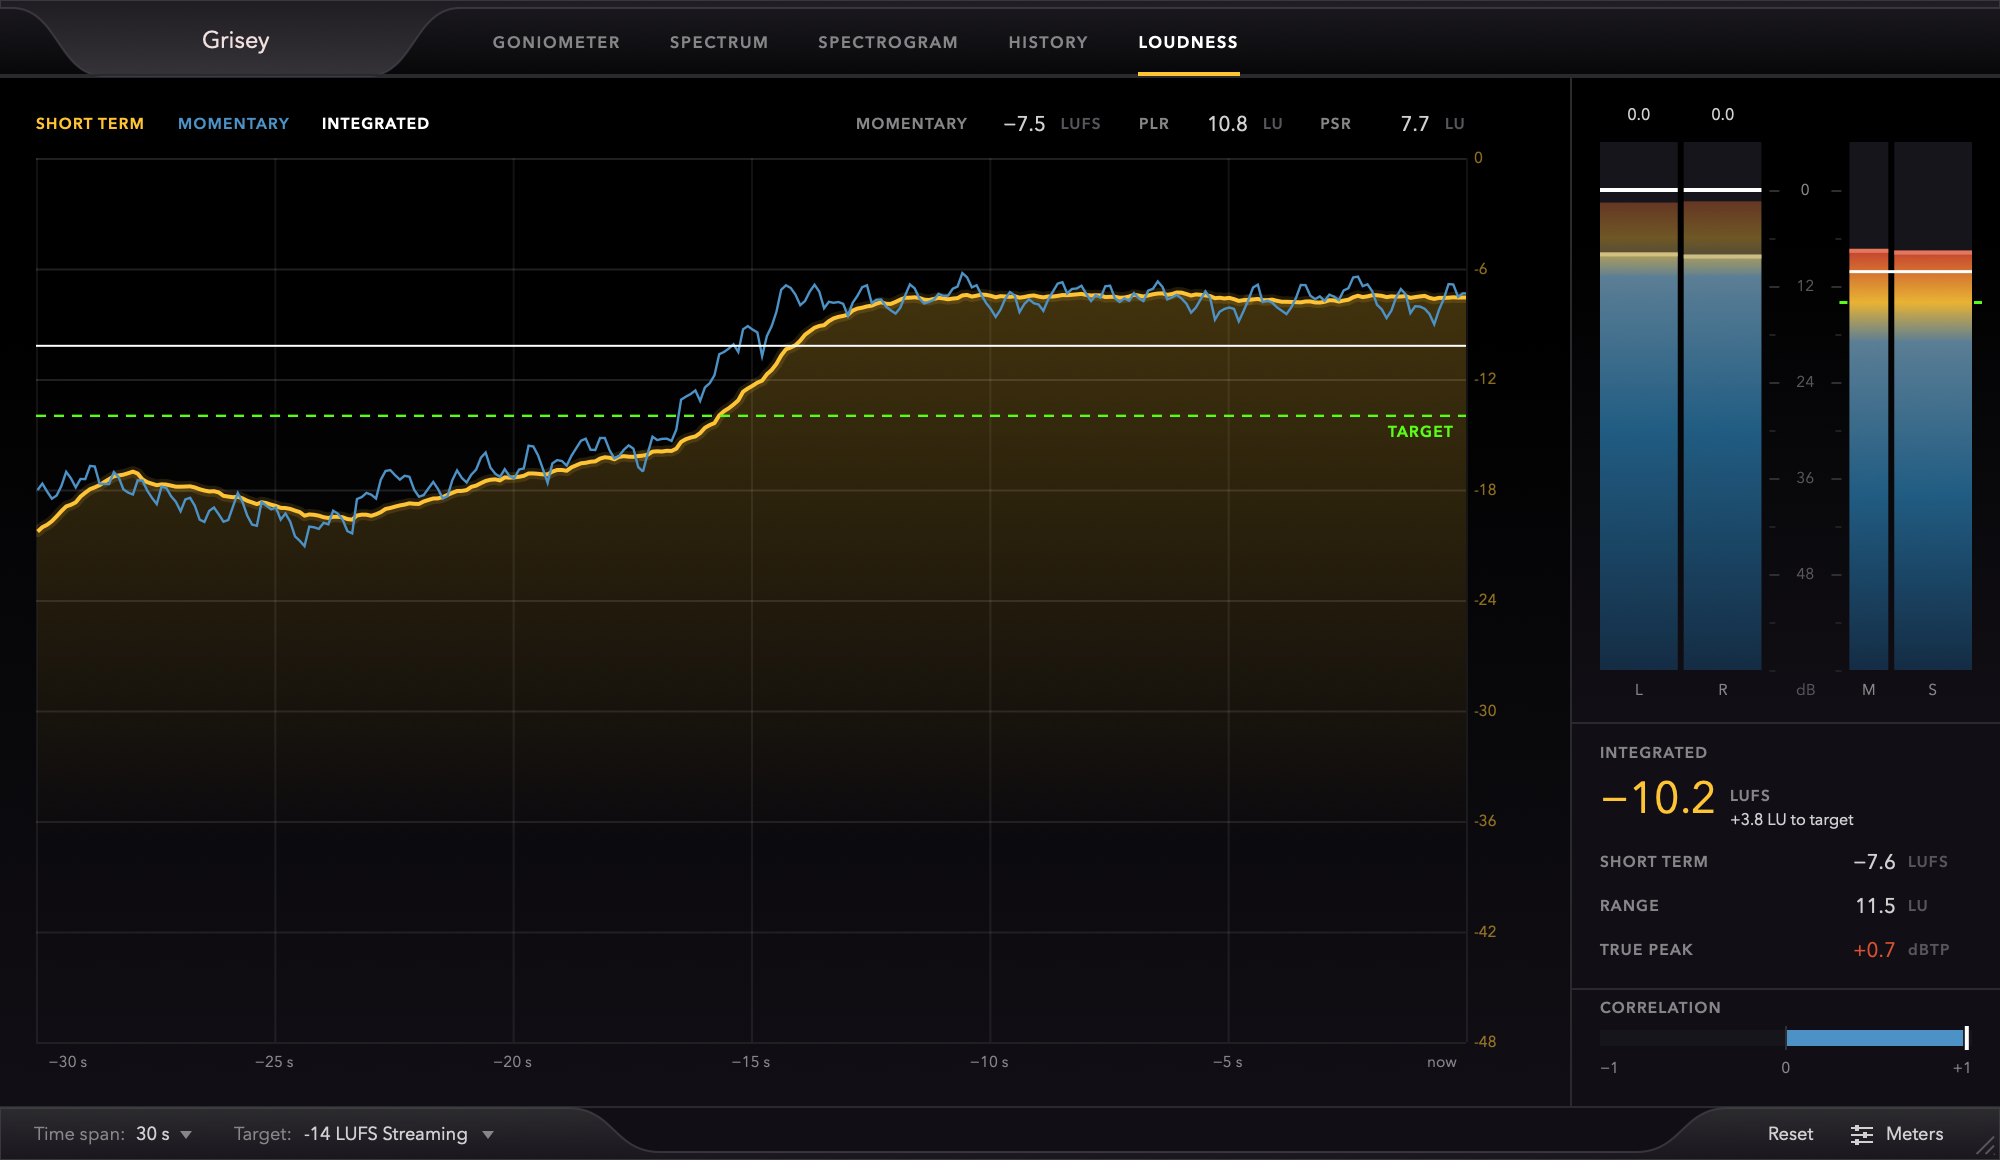
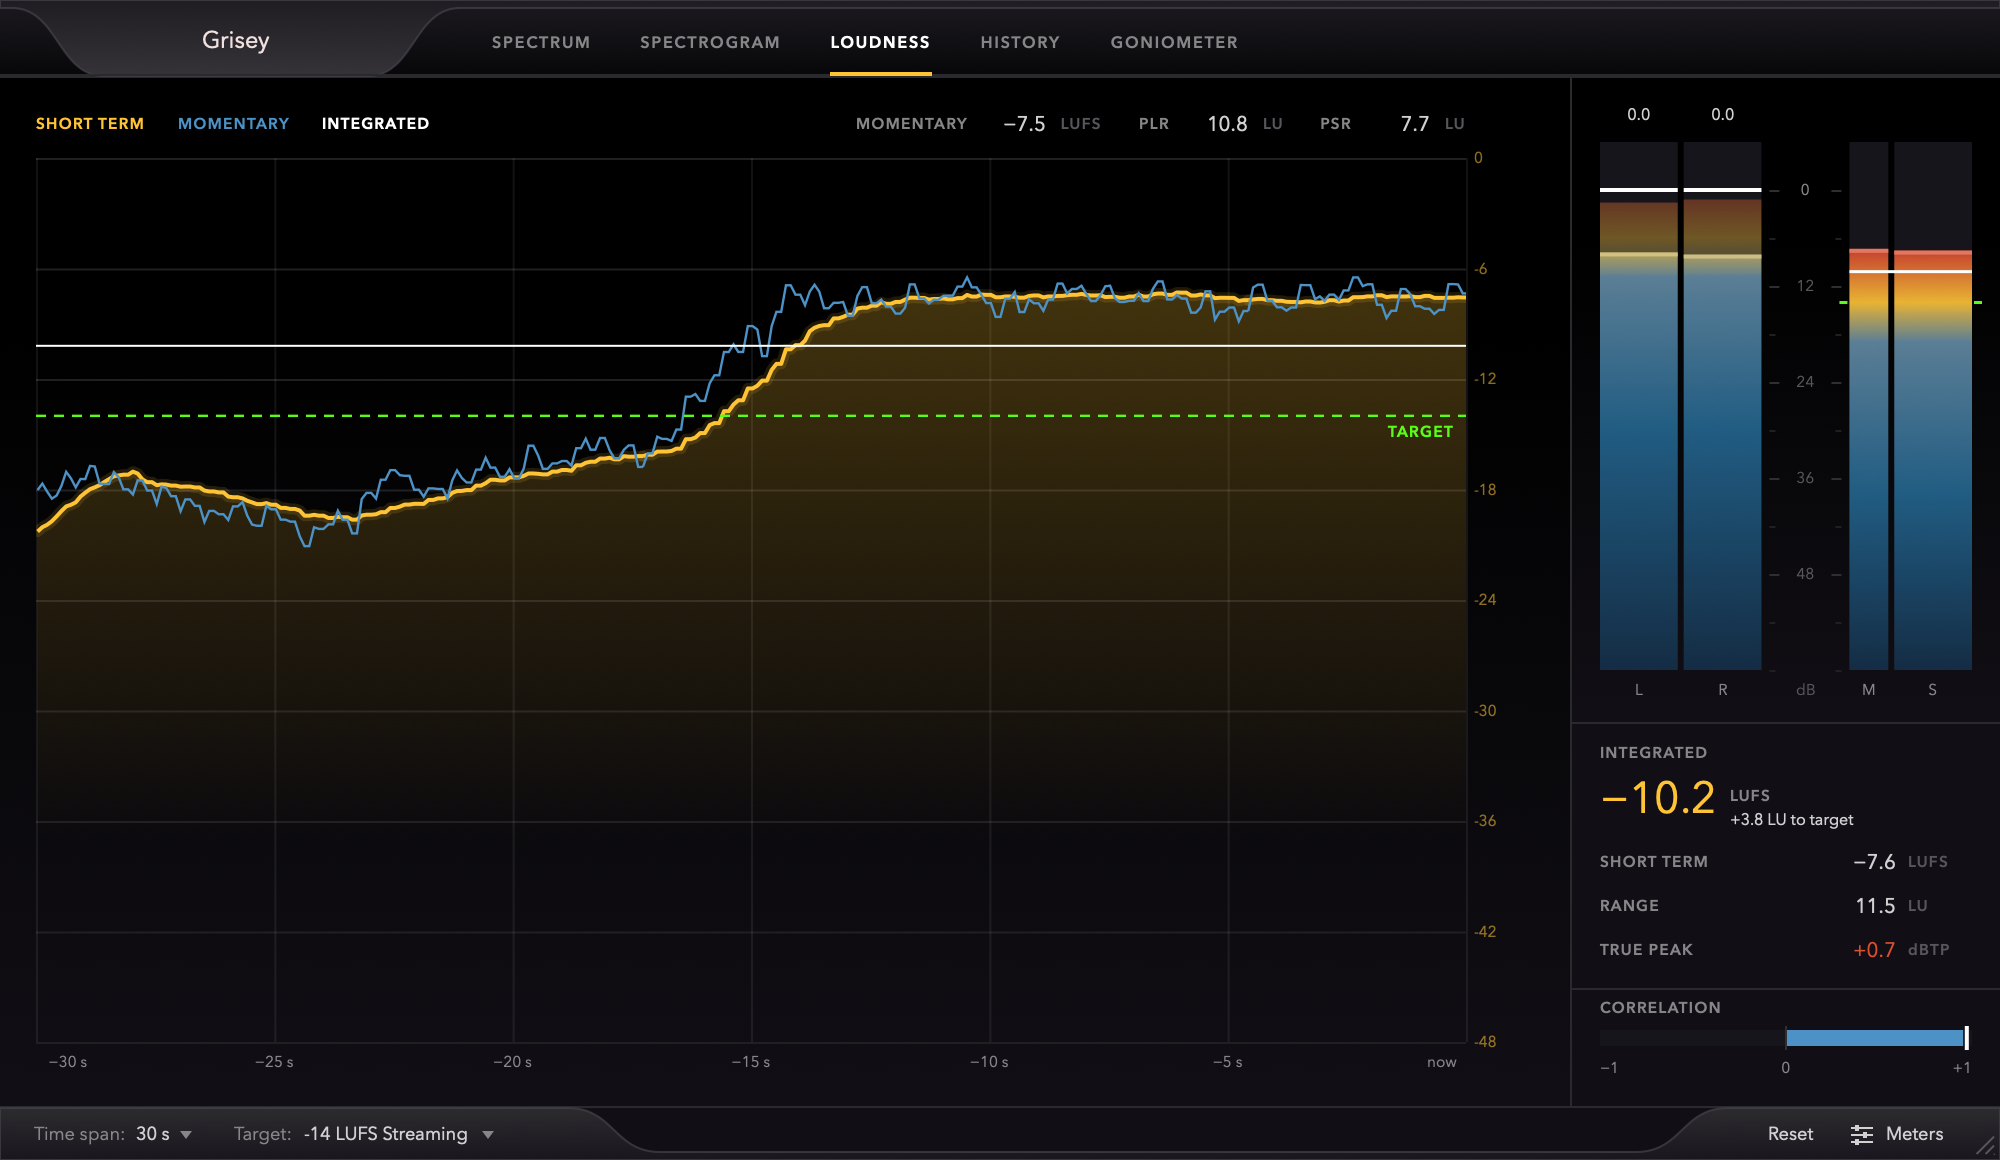
Make the spectrogram dark, put the tabs in order, and redraw at 60
The spectrogram showed 90 dB, so even what was quiet was lit, and its colors
ran from a bright blue to a bright yellow, which makes a grey green of
everything between them: the picture was a wash of blue with yellow patches.
It now shows 66 dB, raises the level's place in that range to the power of 1.5
so that what is quiet stays dark, and goes from black through a hint of the
meters' blue to the amber and the yellow of the signal and a warm white. The
blue meets the amber while both are dark. It records 512 rows, where it had
256, and the scrolling images are drawn with smoothing, so a column is not a
block when the span is short. Measured at 60 frames per second: 13% of a core,
the same as the loudness view.

The tabs were in the order that the views were written in, with the goniometer
first because it was all that version 1 had. Now the view that opens first
comes first, the two views of the spectrum are side by side, then the three of
the timeline with the loudness first among them, and the goniometer is at the
end. Only the order of the tabs has changed, in the editor: the values of the
parameter are as they were, so saved sessions open on the view they had.

The editor redraws at 60 frames per second unless it is set to 30. A session
that was saved with 30 keeps it.

diff --git a/Source/PluginEditor.cpp b/Source/PluginEditor.cpp
@@ -17,6 +17,17 @@ namespace
     const juce::Identifier editorHeightProperty { "editorHeight" };
 }
 
+namespace
+{
+    // The order of the tabs. The view that opens first comes first, the two views of the spectrum are
+    // side by side, and so are the three views of the timeline, of which the loudness matters most.
+    // The goniometer, the only view of the stereo image, is at the end, beside the correlation. The
+    // values of the parameter are in another order, which is that of version 2's first builds, and
+    // cannot change without saved sessions opening on the wrong view.
+    constexpr std::array<int, 5> tabOrder { Parameters::viewSpectrum, Parameters::viewSpectrogram, Parameters::viewLoudness,
+                                            Parameters::viewHistory, Parameters::viewGoniometer };
+}
+
 //==============================================================================
 GriseyAudioProcessorEditor::GriseyAudioProcessorEditor(GriseyAudioProcessor& p) :
     AudioProcessorEditor(&p),
@@ -37,8 +48,12 @@ GriseyAudioProcessorEditor::GriseyAudioProcessorEditor(GriseyAudioProcessor& p) 
 
     // The tabs change between the views
     addAndMakeVisible(tabs);
-    tabs.setTabs(mainViewNames);
-    tabs.onChange = [this](int id) { mainViewAttachment.setValueAsCompleteGesture((float)id); };
+    juce::StringArray tabNames;
+    for (int viewId : tabOrder)
+        tabNames.add(mainViewNames[viewId]);
+
+    tabs.setTabs(tabNames);
+    tabs.onChange = [this](int tab) { mainViewAttachment.setValueAsCompleteGesture((float)tabOrder[(size_t)tab]); };
 
     addChildComponent(goniometerView);
     addChildComponent(spectrumView);
@@ -385,7 +400,7 @@ void GriseyAudioProcessorEditor::updateMeters(float elapsedSeconds)
 //==============================================================================
 void GriseyAudioProcessorEditor::showMainView(int viewId)
 {
-    tabs.setSelection(viewId);
+    tabs.setSelection((int)std::distance(tabOrder.begin(), std::find(tabOrder.begin(), tabOrder.end(), viewId)));
     controlBar.showView(viewId);
 
     // The dip in the bottom bar follows the width of the view's controls

diff --git a/Source/Views/SpectrogramView.cpp b/Source/Views/SpectrogramView.cpp
@@ -7,14 +7,18 @@ SpectrogramView::SpectrogramView(SpectrumSource& spectrumSource) : source(spectr
     display.numPoints = numRows;
     pending.fill(SpectrumEngine::silenceDb);
 
-    // From the black of the display through the deep and the bright blue to the yellow of the signal
-    // and on to white, so that the lightness rises with the level
+    // Like the spectrum, the picture is dark, and what is loud is a light in it. What is quiet is a hint of the
+    // blue of the meters, and then the level rises through the amber of the signal to its yellow and on to a
+    // warm white, so that the lightness rises with the level all the way. The blue meets the amber while both
+    // are dark: a bright blue beside a bright yellow makes a grey green of everything between them.
     juce::ColourGradient gradient;
     gradient.addColour(0.0, Theme::displayTop);
-    gradient.addColour(0.3, Theme::secondDeep);
-    gradient.addColour(0.55, Theme::second);
-    gradient.addColour(0.82, Theme::accent);
-    gradient.addColour(1.0, juce::Colours::white);
+    gradient.addColour(0.2, juce::Colour(0xff08121d));
+    gradient.addColour(0.4, Theme::meterDeep);
+    gradient.addColour(0.56, juce::Colour(0xff50381a));
+    gradient.addColour(0.74, juce::Colour(0xffbd7d20));
+    gradient.addColour(0.88, Theme::accent);
+    gradient.addColour(1.0, juce::Colour(0xfffff1c8));
 
     for (size_t i = 0; i < colourTable.size(); ++i)
         colourTable[i] = gradient.getColourAtPosition((double)i / (double)(colourTable.size() - 1));
@@ -77,7 +81,7 @@ void SpectrogramView::record(int numNewSlots, bool hasNewSpectra, float tiltDbPe
         for (size_t row = 0; row < column.size(); ++row)
         {
             const float proportion = juce::jlimit(0.f, 1.f, (pending[row] - minDecibels) / (maxDecibels - minDecibels));
-            column[row] = (juce::uint8)juce::roundToInt(proportion * 255.f);
+            column[row] = (juce::uint8)juce::roundToInt(std::pow(proportion, contrast) * 255.f);
         }
 
         lastColumn = column;

diff --git a/Source/Parameters.h b/Source/Parameters.h
@@ -94,7 +94,9 @@ namespace Parameters
     inline constexpr std::array<float, 3> timeSpansSeconds { 15.f, 30.f, 60.f };
 
     // How often the editor redraws. On macOS every frame costs a flush of the whole window, whatever
-    // is drawn in it, so the frame rate is what decides how much of the CPU the editor takes.
+    // is drawn in it, so the frame rate is what decides how much of the CPU the editor takes. It is
+    // 60 fps unless it is changed, which is what a meter ought to look like, and 30 fps takes about
+    // two thirds of the CPU time.
     inline const juce::StringArray refreshRateNames { "30 fps", "60 fps" };
     inline constexpr std::array<int, 2> refreshRatesHz { 30, 60 };
 
@@ -189,7 +191,7 @@ namespace Parameters
         layout.add(std::make_unique<Choice>(juce::ParameterID { ID::spectrumSmoothing, 2 }, "Spectrum Smoothing", spectrumSmoothingNames, 2, display));
         layout.add(std::make_unique<Choice>(juce::ParameterID { ID::spectrumResolution, 2 }, "Spectrum Resolution", spectrumResolutionNames, 1, display));
         layout.add(std::make_unique<Choice>(juce::ParameterID { ID::loudnessTarget, 2 }, "Loudness Target", loudnessTargetNames, 1, display));
-        layout.add(std::make_unique<Choice>(juce::ParameterID { ID::refreshRate, 2 }, "Refresh Rate", refreshRateNames, 0, display));
+        layout.add(std::make_unique<Choice>(juce::ParameterID { ID::refreshRate, 2 }, "Refresh Rate", refreshRateNames, 1, display));
         layout.add(std::make_unique<Choice>(juce::ParameterID { ID::timeSpan, 2 }, "Time Span", timeSpanNames, 1, display));
         layout.add(std::make_unique<Choice>(juce::ParameterID { ID::historyShow, 2 }, "History Shows", meterViewNames, peakAndRmsMeters, display));
 

diff --git a/Source/Views/SpectrogramView.h b/Source/Views/SpectrogramView.h
@@ -14,12 +14,17 @@ class SpectrogramView : public juce::Component
 {
 public:
     // The levels that the darkest and the brightest colors stand for
-    static constexpr float minDecibels = -96.f;
-    static constexpr float maxDecibels = -6.f;
+    // The picture shows 66 dB. With more, as it had, even what is quiet is lit, and nothing is dark.
+    static constexpr float minDecibels = -84.f;
+    static constexpr float maxDecibels = -18.f;
+
+    // Raising the level's place in that range to this power keeps what is quiet dark, and leaves the
+    // light for what is loud
+    static constexpr float contrast = 1.5f;
 
     // What is recorded for every slot: the level at this many frequencies, spaced logarithmically.
     // The picture is made from it at whatever height the view has.
-    static constexpr int numRows = 256;
+    static constexpr int numRows = 512;
 
     explicit SpectrogramView(SpectrumSource&);
 

diff --git a/Source/Views/ScrollingImage.h b/Source/Views/ScrollingImage.h
@@ -58,7 +58,8 @@ public:
         const float scaleX = (float)area.getWidth() / (float)width;
         const int split = juce::roundToInt((float)(width - writeX) * scaleX);
 
-        g.setImageResamplingQuality(juce::Graphics::lowResamplingQuality);
+        // A column is wider than a pixel when the span is short, and would show as a block without this
+        g.setImageResamplingQuality(juce::Graphics::mediumResamplingQuality);
         g.drawImage(image, area.getX(), area.getY(), split, area.getHeight(), writeX, 0, width - writeX, height);
 
         if (writeX > 0)

diff --git a/ROADMAP.md b/ROADMAP.md
@@ -87,9 +87,10 @@ costs about 0.15% of one core at 48 kHz.
       - JUCE's Metal layer renderer (`JUCE_COREGRAPHICS_RENDER_WITH_MULTIPLE_PAINT_CALLS`) and an
         attached `OpenGLContext` were both worse, and a `juce::Timer` was worse than vblank
         callbacks that skip frames.
-      - The frame rate is what decides the cost, so it is a setting: 30 frames per second by
-        default (10-15% of a core per view), or 60 (14-26%). The version 1 style interface took
-        20-39% at 60 in a smaller window. An idle editor takes about 4%.
+      - The frame rate is what decides the cost, so it is a setting: 60 frames per second by
+        default (14-26% of a core per view), which is what a meter ought to look like, or 30
+        (10-15%). The version 1 style interface took 20-39% at 60 in a smaller window. An idle
+        editor takes about 4%.
 - [x] One timeline for the spectrogram, the history and the loudness (`Source/Views/Timeline.h`).
       The spectrogram used to record only while it was the view that was showing, so it fell
       behind the others and had a hole for every time it was hidden, and the three views each
